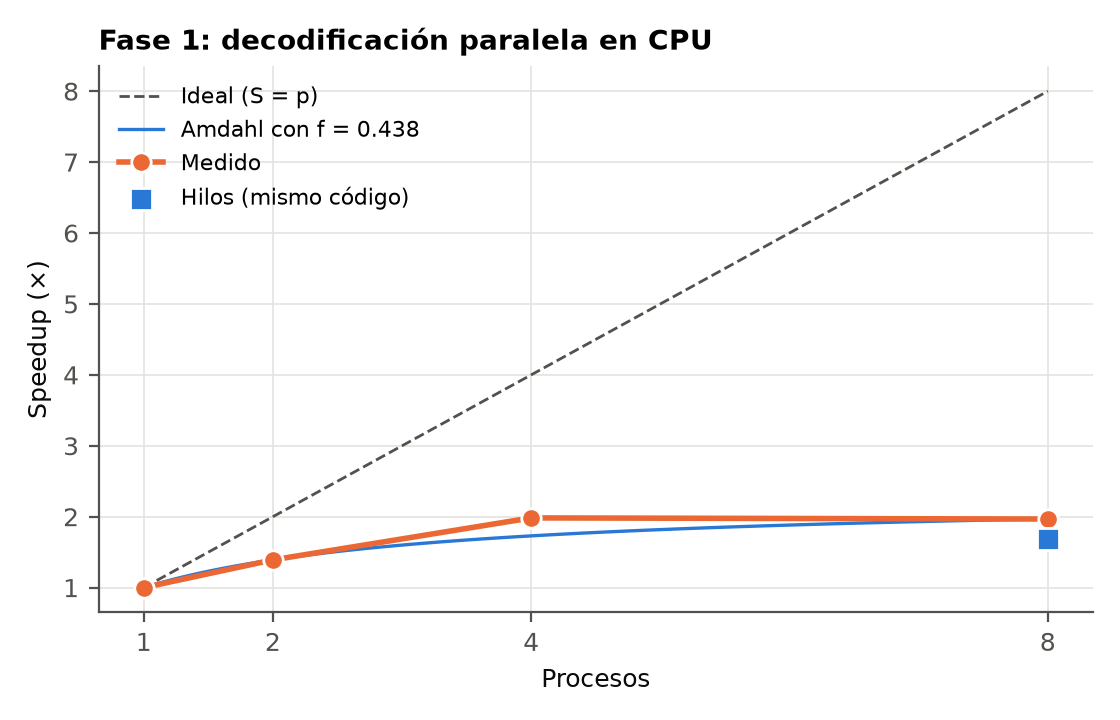
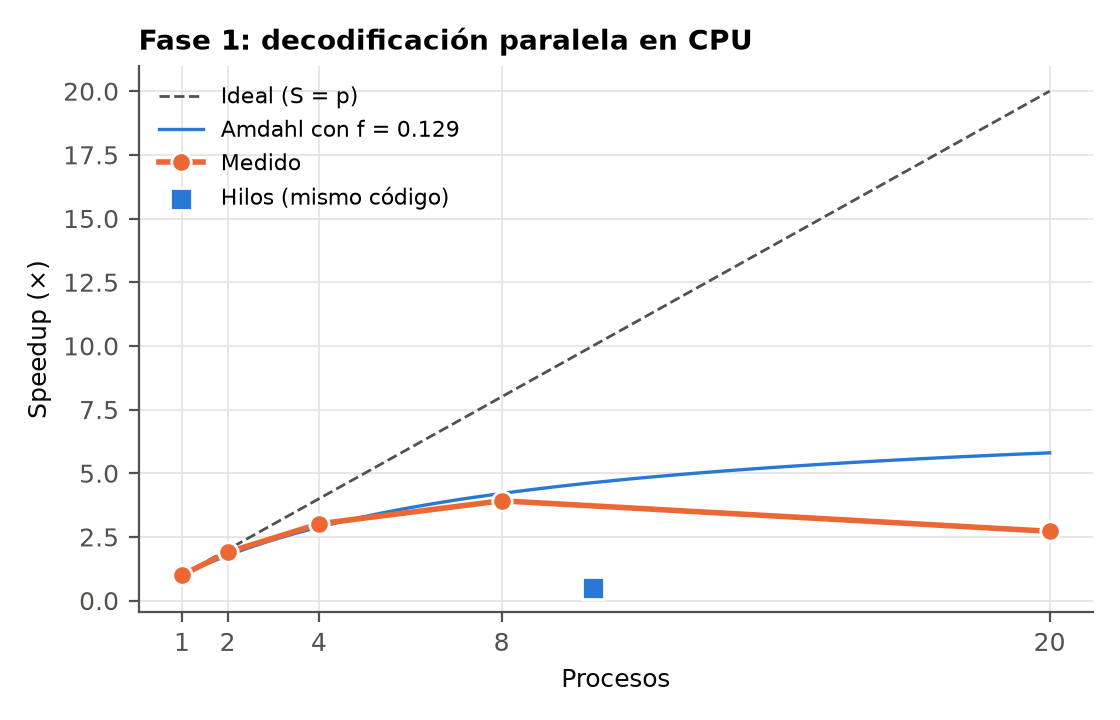
docs: resultados de la Ryzen en las secciones 2 y 6 y en el notebook

diff --git a/docs/02-medicion-secuencial.md b/docs/02-medicion-secuencial.md
@@ -32,12 +32,15 @@ rendimiento, sin otras aplicaciones abiertas y la misma versión del código
 `results/<equipo>/bench/` y el uso de cada núcleo, medido cada 0.25 s, en
 `results/<equipo>/bench/monitor.csv`.
 
-Medimos en dos computadoras. Los números oficiales, y todos los speedup del
+Medimos en tres computadoras. Los números oficiales, y todos los speedup del
 informe, son de la laptop de Adrian, porque ahí se mide también la GPU y el
-speedup solo tiene sentido dentro de la misma máquina. La segunda computadora
-es la MacBook de Hansel (Apple M3, 8 núcleos: 4 de rendimiento y 4 de
-eficiencia, 24 GB de RAM); sirve para ver cómo cambia el escalamiento en CPU
-con otra arquitectura.
+speedup solo tiene sentido dentro de la misma máquina. Las otras dos sirven
+para ver cómo cambia el escalamiento en CPU con otra arquitectura:
+
+| Equipo | Procesador | Núcleos | RAM | Sistema |
+|---|---|---|---|---|
+| Laptop de Fernando | AMD Ryzen AI 9 365 | 10 físicos (4 Zen 5 y 6 Zen 5c), 20 lógicos | 15.3 GB visibles en WSL2 | Linux en WSL2 sobre Windows |
+| MacBook de Hansel | Apple M3 | 8 (4 de rendimiento y 4 de eficiencia) | 24 GB | macOS |
 
 ## 2.2 Resultados en la laptop de la corrida oficial
 
@@ -77,16 +80,98 @@ Las variantes en CPU de la transformación de entrada, del paso de
 entrenamiento y de la inferencia están en las tablas de la sección 5.3, junto
 a las de GPU, para que la comparación quede en un solo lugar.
 
-## 2.3 Resultados en la segunda computadora (Apple M3)
+## 2.3 Resultados en la laptop de Fernando (Ryzen AI 9 365)
+
+Esta corrida se hizo con la laptop conectada, sin otras aplicaciones y sin
+usarla mientras corría. El monitor lo confirma: durante las variantes de un
+solo hilo el uso total del CPU fue de 5.4 %, que es justo un núcleo lógico de
+20; no había otra carga.
+
+: Época completa en la Ryzen (1,160 imágenes, media de 3 repeticiones).
+
+{{< include ../informe/tablas/cpu2_pipeline.md >}}
+
+El Lab 3 en un hilo procesa 44.9 imágenes por segundo. De los 25.8 s de la
+época, 5.4 s (21 %) son abrir, decodificar y transformar imágenes y 20.4 s son
+la red. Con la configuración con la que se entregó (4 *workers* y todos los
+hilos) la época baja a 15.5 s, un speedup de 1.67, y la parte de datos casi
+desaparece del hilo principal (1.05 s) porque la hacen los *workers* en
+paralelo. Con la caché y el kernel de Numba en CPU baja a 9.4 s (2.75×).
+
+Esa última fila tiene un CV de 26 %: la primera repetición tardó 6.5 s y las
+dos siguientes 10.8 y 10.9 s. Las tres usan los 20 hilos lógicos al 96 %
+durante más de 30 s seguidos, y lo más probable es que la laptop haya bajado
+la frecuencia por temperatura. Desde WSL2 no pudimos leer la frecuencia del
+procesador para confirmarlo, así que lo dejamos como hipótesis; es también
+un aviso para la corrida en GPU, que corre en otra laptop con el mismo
+problema.
+
+: Proyección del entrenamiento completo en la Ryzen.
+
+{{< include ../informe/tablas/cpu2_proyeccion_entrenamiento.md >}}
+
+Con la caché y el kernel en CPU, el entrenamiento completo pasaría de 3.77
+a 1.38 horas sin usar GPU. Es la ganancia de hacer la decodificación una sola
+vez y de reemplazar PIL por el kernel, antes de cualquier aceleración en la
+GPU.
+
+: Paso de entrenamiento, inferencia y transformación de entrada en la Ryzen.
+
+{{< include ../informe/tablas/cpu2_train.md >}}
+
+{{< include ../informe/tablas/cpu2_inference.md >}}
+
+{{< include ../informe/tablas/cpu2_augment.md >}}
+
+Aquí los hilos de PyTorch sí ayudan, pero poco: el paso de entrenamiento
+mejora 1.45 veces con 20 hilos, aunque el monitor muestra los 20 hilos
+lógicos al 96 %. En Linux, PyTorch usa OpenMP y sus hilos esperan activamente
+(*spin*) en cada barrera entre operaciones, así que un núcleo ocupado no
+significa un núcleo haciendo trabajo útil. Con una sola imagen, 20 hilos son
+más lentos que uno (9.4 ms contra 5.3 ms): cada capa tiene tan poco trabajo
+que coordinar los hilos cuesta más que el cálculo.
+
+El kernel de Numba, en cambio, ya es 2.3 veces más rápido que torchvision con
+PIL en un solo hilo, y con 20 hilos llega a 12.5 veces. Es la fase que mejor
+escala en CPU porque cada lote es un solo `prange` grande, sin barreras
+intermedias.
+
+: Decodificación de 5,800 imágenes en la Ryzen.
+
+{{< include ../informe/tablas/cpu2_prep.md >}}
+
+![Speedup de la decodificación en la Ryzen.](../informe/figuras/cpu2_prep_escalamiento.png){width=70%}
+
+La decodificación escala bien hasta 4 procesos (3.0×, eficiencia 0.75) y
+llega a su máximo con 8 (3.9×). Con 20 procesos baja a 2.7×. Karp-Flatt
+crece de forma sostenida, de 0.055 con 2 procesos a 0.33 con 20: el límite no
+es una parte secuencial del algoritmo sino el costo de paralelizar. A partir
+de 10 procesos se empiezan a usar los hilos lógicos (dos por núcleo físico,
+que comparten unidades de cálculo) y 6 de los 10 núcleos son Zen 5c, de menor
+frecuencia. Además, 5,800 imágenes se reparten en bloques muy pequeños entre
+20 procesos, y arrancar cada uno pesa. Con el dataset completo sí conviene usar
+todos: `asl-cuda prep` armó la caché de las 66,700 imágenes en 73.5 s con un
+proceso y en 15.8 s con 20 (4.65×). Parte de esa diferencia no es
+paralelismo: la corrida de un proceso fue la primera y leyó los JPEG desde el
+disco (907 imágenes por segundo, contra 1,686 en la medición con
+calentamiento).
+
+Los hilos, con el mismo código, fueron más lentos que la versión secuencial:
+speedup de 0.51 con 10 hilos. Es el efecto del GIL.
+
+![Uso de cada núcleo lógico durante todas las mediciones en la Ryzen. Las variantes secuenciales ocupan un núcleo a la vez (el sistema lo va moviendo); las paralelas, los 20.](../informe/figuras/cpu2_monitor_bench.png){width=95%}
+
+## 2.4 Resultados en la MacBook de Hansel (Apple M3)
 
 En la M3 las mediciones se hicieron con algunas aplicaciones abiertas en
 segundo plano. El monitor lo muestra: aun en la variante de un solo hilo, los
 cuatro núcleos de eficiencia estaban entre 12 y 28 % ocupados. Por eso usamos
-estos números para comparar cómo escala cada fase y no como tiempos absolutos.
+estos números para comparar cómo escala cada fase y no como tiempos absolutos;
+la referencia limpia en CPU es la de la sección anterior.
 
 : Época completa en la M3 (1,160 imágenes, media de 3 repeticiones).
 
-{{< include ../informe/tablas/cpu2_pipeline.md >}}
+{{< include ../informe/tablas/cpu3_pipeline.md >}}
 
 Una época del Lab 3 en un hilo procesa 45.4 imágenes por segundo, y de los
 25.5 s que tarda con 1,160 imágenes solo 1.8 s son lectura y transformación;
@@ -102,18 +187,18 @@ repetición, mientras arrancan los 4 procesos del `DataLoader`.
 
 : Paso de entrenamiento en la M3 (15 lotes de 64).
 
-{{< include ../informe/tablas/cpu2_train.md >}}
+{{< include ../informe/tablas/cpu3_train.md >}}
 
 : Inferencia en la M3, por lotes y de una sola imagen.
 
-{{< include ../informe/tablas/cpu2_inference.md >}}
+{{< include ../informe/tablas/cpu3_inference.md >}}
 
 El paso de entrenamiento confirma que el problema son los hilos de PyTorch:
 con 8 hilos tarda 64.2 s contra 21.9 s con uno (speedup 0.34) y con un CV de
 11 %, contra 2.7 % en un hilo. Para una sola imagen la latencia sube de 16 ms
 a 82 ms.
 
-![Uso de cada núcleo durante la época completa en la M3. Núcleos 0–3: eficiencia; 4–7: rendimiento.](../informe/figuras/cpu2_monitor_bench.png){width=95%}
+![Uso de cada núcleo durante la época completa en la M3. Núcleos 0–3: eficiencia; 4–7: rendimiento.](../informe/figuras/cpu3_monitor_bench.png){width=95%}
 
 La figura explica por qué. Con 8 hilos el uso total del CPU fue de 31 a 33 %
 en promedio, y los núcleos de rendimiento promediaron entre 32 y 59 %: los
@@ -128,7 +213,7 @@ En cambio, el kernel de Numba en CPU sí escala en la misma máquina:
 
 : Transformación de entrada en la M3 (1,160 imágenes).
 
-{{< include ../informe/tablas/cpu2_augment.md >}}
+{{< include ../informe/tablas/cpu3_augment.md >}}
 
 Pasa de 1.58 s con un hilo a 0.44 s con 8 (3.6 veces), y queda 3.8 veces más
 rápido que torchvision con PIL. La diferencia con PyTorch es que el trabajo
@@ -137,9 +222,9 @@ sin una barrera por capa.
 
 : Decodificación de 5,800 imágenes en la M3.
 
-{{< include ../informe/tablas/cpu2_prep.md >}}
+{{< include ../informe/tablas/cpu3_prep.md >}}
 
-![Speedup de la decodificación en la M3.](../informe/figuras/cpu2_prep_escalamiento.png){width=70%}
+![Speedup de la decodificación en la M3.](../informe/figuras/cpu3_prep_escalamiento.png){width=70%}
 
 ![Monitor de actividad de la M3 durante la decodificación con 1 proceso: un solo proceso de Python con 83 % de CPU.](../evidencia/hansel-prep-secuencial.png){width=95%}
 
@@ -162,17 +247,19 @@ escribe 5.2 GB de caché, contra 1.4 GB de cada una de las otras dos.
 Sospechamos que ahí el límite fue la escritura a disco, pero no lo medimos
 por separado.
 
-## 2.4 Factores que influyen en el rendimiento
+## 2.5 Factores que influyen en el rendimiento
 
 **El GIL.** Los hilos de Python no ejecutan código Python al mismo tiempo.
-Pillow suelta el GIL durante parte de la decodificación, por eso en la M3 los
-hilos todavía dieron 1.68 de speedup, pero quedaron por debajo de los
-procesos con el mismo número de trabajadores. [[GPU: speedup de la fila de
-hilos en prep.md de la corrida oficial y comparación con procesos]].
+En la Ryzen, 10 hilos decodificando fueron más lentos que uno solo (0.51×).
+Pillow suelta el GIL durante parte de la decodificación, y en la M3 los hilos
+todavía dieron 1.68×, pero en las dos máquinas quedaron por debajo de los
+procesos. [[GPU: speedup de la fila de hilos en prep.md de la corrida
+oficial y comparación con procesos]].
 
 **Núcleos físicos, lógicos y de distinto tipo.** Dos hilos lógicos de un
-mismo núcleo físico comparten sus unidades de cálculo, y en la M3 la mitad de
-los núcleos son de eficiencia. En los dos casos agregar trabajadores después
+mismo núcleo físico comparten sus unidades de cálculo; en la Ryzen 6 de los
+10 núcleos son Zen 5c, de menor frecuencia, y en la M3 la mitad son de
+eficiencia. En los dos casos agregar trabajadores después
 del número de núcleos rápidos no ayuda y puede empeorar el tiempo, sobre todo
 en PyTorch, que sincroniza todos sus hilos en cada operación.
 
@@ -180,6 +267,10 @@ en PyTorch, que sincroniza todos sus hilos en cada operación.
 *spawn*: cada uno vuelve a importar las librerías. Es un costo fijo que se
 nota con pocas imágenes (Karp-Flatt creciente en la decodificación) y en el
 `DataLoader` del Lab 3, que lo paga al inicio de cada época.
+
+**Temperatura.** Una laptop con todos los núcleos ocupados por mucho tiempo
+baja su frecuencia. Lo vimos en la variante híbrida en la Ryzen (de 6.5 s a
+10.9 s entre repeticiones); por eso reportamos el CV de cada medición.
 
 **Caché del sistema operativo.** La primera lectura de los JPEG viene del
 disco y las siguientes de la memoria. Por eso descartamos la primera
@@ -193,7 +284,8 @@ Numba hace todo en una pasada por píxel, y por eso aun en un hilo es igual o
 más rápido.
 
 **Hilos de PyTorch y *workers* del `DataLoader`.** El Lab 3 se entregó con 4
-*workers* y todos los hilos. Esa combinación pone más trabajadores que núcleos
-y, como se vio en la M3, puede ser más lenta que un solo hilo. En la laptop
+*workers* y todos los hilos. En la Ryzen esa combinación sí ayudó (1.67×),
+pero en la M3 fue 3 veces más lenta que un solo hilo: el resultado depende
+del procesador y no conviene suponerlo. En la laptop
 oficial la diferencia entre "Lab 3 secuencial" y "Lab 3 como se entregó" fue
 [[GPU: speedup de "Lab 3 como se entregó" en pipeline.md]].

diff --git a/docs/06-analisis-conclusiones.md b/docs/06-analisis-conclusiones.md
@@ -44,8 +44,8 @@ Contrastamos las hipótesis de la sección 3 con lo medido:
 
 | Hipótesis | Resultado | Evidencia |
 |---|---|---|
-| 1. Eliminar la decodificación repetida reduce el tiempo por época aun sin GPU | [[GPU]] Parcial en la M3: la parte de datos bajó de 1.84 s a 0.36 s por época de 1,160 imágenes, pero la época total no, porque ahí domina la red | `bench_pipeline.csv`, columna `data_seconds` |
-| 2. La decodificación escala casi lineal hasta los núcleos físicos y después se aplana | [[GPU]] En la M3 se aplanó en 4 procesos (1.98×), con Karp-Flatt creciente | `prep.md` |
+| 1. Eliminar la decodificación repetida reduce el tiempo por época aun sin GPU | [[GPU]] Sí en la Ryzen: la época bajó de 25.8 s a 9.4 s (2.75×) y la parte de datos de 5.4 s a 0.45 s. En la M3 la parte de datos también bajó (1.84 s a 0.36 s), pero la época no, por los hilos de PyTorch | `pipeline.md`, `bench_pipeline.csv` (`data_seconds`) |
+| 2. La decodificación escala casi lineal hasta los núcleos físicos y después se aplana | [[GPU]] Se cumple: la Ryzen (10 núcleos físicos) llegó a su máximo con 8 procesos (3.9×) y bajó con 20; la M3 se aplanó en 4 (1.98×). En las dos Karp-Flatt crece con los procesos | `prep.md` |
 | 3. El kernel en GPU es al menos 10 veces más rápido que torchvision/PIL | [[GPU]] | `augment.md` |
 | 4. El paso de entrenamiento en GPU con AMP es más de 10 veces más rápido que en CPU multinúcleo | [[GPU]] | `train.md` |
 | 5. Con la transformación en CPU la GPU queda esperando datos | [[GPU]] | `entrenamientos.md`, `monitor_base-cuda-aug-cpu.png` |
@@ -58,7 +58,8 @@ el backward, organizados en convoluciones y productos matriciales con miles
 de salidas independientes. cuDNN reparte ese trabajo entre todos los
 multiprocesadores de la GPU, y con precisión mixta además usa los Tensor
 Cores. En el CPU el mismo trabajo se reparte entre unos pocos núcleos, y como
-vimos en la M3, repartirlo entre más hilos no siempre ayuda.
+vimos en la sección 2, repartirlo entre más hilos ayuda poco (1.45× con 20
+hilos en la Ryzen) o incluso empeora (0.34× con 8 en la M3).
 
 **El kernel de entrada está limitado por memoria, no por cálculo.** Cada hilo
 hace unas 60 operaciones de punto flotante por 24 bytes que lee y escribe.
@@ -79,11 +80,13 @@ Cuando la transformación vuelve al CPU (ablación `base-cuda-aug-cpu`), el CPU
 es el que marca el ritmo. [[GPU: img/s y espera por datos de las dos
 corridas.]]
 
-**Los hilos de PyTorch en CPU.** En la M3, con 8 hilos, el paso de
-entrenamiento fue 2.9 veces más lento que con uno, y durante la época
-completa el uso total del CPU promedió entre 31 y 33 %. PyTorch divide cada operación en partes iguales y espera a que
-terminen todas; con núcleos de dos velocidades los rápidos esperan a los
-lentos en cada capa. [[GPU: comparar con la fila "CPU N hilos" de train.md
+**Los hilos de PyTorch en CPU.** PyTorch divide cada operación en partes
+iguales y espera a que terminen todas antes de seguir. En la Ryzen, con 20
+hilos, el paso de entrenamiento fue solo 1.45 veces más rápido aunque los 20
+hilos lógicos aparecían al 96 %: buena parte de ese uso es espera activa en
+las barreras de OpenMP. En la M3, con 8 hilos, fue 2.9 veces más lento que con
+uno, con el CPU ocupado apenas entre 31 y 33 %: con núcleos de dos
+velocidades los rápidos esperan a los lentos en cada capa. [[GPU: comparar con la fila "CPU N hilos" de train.md
 en la laptop oficial: si allí sí ayudó, la diferencia es la arquitectura del
 procesador.]]
 
@@ -101,9 +104,10 @@ de un JPEG es secuencial dentro de cada archivo, porque no se sabe dónde
 empieza un símbolo hasta decodificar el anterior, y está llena de ramas; en
 una GPU los hilos de un warp que toman caminos distintos se ejecutan por
 turnos. Lo que sí es paralelo es que los archivos no dependen entre sí, y eso
-es exactamente lo que aprovechan varios procesos del CPU: en la M3 la
-decodificación llegó a 1.98 veces con 4 procesos y en la laptop oficial a
-[[GPU: mejor speedup de prep.md]]. Además, al guardar el resultado en una
+es exactamente lo que aprovechan varios procesos del CPU: la decodificación
+llegó a 3.9 veces con 8 procesos en la Ryzen, a 1.98 con 4 en la M3 y a
+[[GPU: mejor speedup de prep.md]] en la laptop oficial. Con hilos, en cambio,
+fue más lenta que la versión secuencial en la Ryzen (0.51×) por el GIL. Además, al guardar el resultado en una
 caché `uint8`, la decodificación se hace una sola vez: de las 1,911,100
 decodificaciones que hizo la búsqueda del Lab 3 pasamos a 66,700.
 
@@ -186,7 +190,7 @@ mitad "final".]]
 
 : Modelo elegido evaluado con las fotos del equipo.
 
-{{< include ../informe/tablas/cpu2_evaluacion.md >}}
+{{< include ../informe/tablas/cpu3_evaluacion.md >}}
 
 ![Matriz de confusión del modelo elegido en el test interno.](../informe/figuras/confusion_test.png){width=70%}
 
@@ -219,7 +223,8 @@ y solo fue práctica de probar con datos completos gracias a la GPU.
    de bloque.
 5. La red con AMP: speedup del paso y qué optimización aportó más.
 6. La ablación: la GPU espera si el CPU hace la transformación.
-7. Lo que no mejoró: más hilos de PyTorch en CPU (M3) y la latencia de una
+7. Lo que no mejoró: más hilos de PyTorch en CPU (1.45× en la Ryzen, 0.34×
+   en la M3) y la latencia de una
    sola imagen en GPU.
 8. Datos nuevos: macro F1 en test interno, externo final y fotos del
    equipo.]]

diff --git a/informe/tablas/cpu2_prep.md b/informe/tablas/cpu2_prep.md
@@ -1,7 +1,8 @@
 | Variante | Procesos/hilos | Tiempo medio (s) | Desv. est. (s) | Imágenes/s | Speedup | Eficiencia | Karp-Flatt e |
-|---------------------------|-------------:|---------------:|-------------:|---------:|------:|---------:|-----------:|
-| secuencial | 1 | 1.418 | 0.037 | 4,091.1 | 1.000 | 1.000 |  |
-| procesos=2 | 2 | 1.019 | 0.086 | 5,691.7 | 1.391 | 0.696 | 0.438 |
-| procesos=4 | 4 | 0.715 | 0.015 | 8,112.7 | 1.983 | 0.496 | 0.339 |
-| procesos=8 | 8 | 0.721 | 0.026 | 8,047.4 | 1.967 | 0.246 | 0.438 |
-| hilos=8 (mismo código, GIL) | 8 | 0.843 | 0.083 | 6,880.2 | 1.682 | 0.210 |  |
+|----------------------------|-------------:|---------------:|-------------:|---------:|------:|---------:|-----------:|
+| secuencial | 1 | 3.439 | 0.202 | 1,686.5 | 1.000 | 1.000 |  |
+| procesos=2 | 2 | 1.814 | 0.106 | 3,197.3 | 1.896 | 0.948 | 0.055 |
+| procesos=4 | 4 | 1.141 | 0.114 | 5,085.1 | 3.015 | 0.754 | 0.109 |
+| procesos=8 | 8 | 0.878 | 0.081 | 6,608.7 | 3.919 | 0.490 | 0.149 |
+| procesos=20 | 20 | 1.264 | 0.074 | 4,589.0 | 2.721 | 0.136 | 0.334 |
+| hilos=10 (mismo código, GIL) | 10 | 6.743 | 0.085 | 860.2 | 0.510 | 0.051 |  |

diff --git a/informe/tablas/cpu2_fases.md b/informe/tablas/cpu2_fases.md
@@ -1,7 +1,7 @@
 | Fase | Secuencial (ms/img) | Mejor variante CPU | CPU (ms/img) | Speedup CPU | GPU (ms/img) | Speedup GPU |
 |-------------------------|------------------:|----------------------------------------|-----------:|----------:|-----------:|----------:|
-| Decodificación (fase 1) | 0.244 | procesos=4 | 0.123 | 1.983 |  |  |
-| Transformación de entrada | 1.458 | Numba CPU 8 hilos | 0.381 | 3.828 |  |  |
-| Paso de entrenamiento | 22.8 | CPU 8 hilos | 66.8 | 0.341 |  |  |
-| Inferencia por lotes | 17.2 | CPU 8 hilos lote 64 | 17.5 | 0.983 |  |  |
-| Época completa | 22.0 | Híbrido CPU (caché + Numba CPU, 8 hilos) | 45.7 | 0.481 |  |  |
+| Decodificación (fase 1) | 0.593 | procesos=8 | 0.151 | 3.919 |  |  |
+| Transformación de entrada | 5.036 | Numba CPU 20 hilos | 0.404 | 12.5 |  |  |
+| Paso de entrenamiento | 12.2 | CPU 20 hilos | 8.399 | 1.450 |  |  |
+| Inferencia por lotes | 9.112 | CPU 20 hilos lote 64 | 4.004 | 2.276 |  |  |
+| Época completa | 22.3 | Híbrido CPU (caché + Numba CPU, 20 hilos) | 8.104 | 2.748 |  |  |

diff --git a/informe/tablas/cpu2_inference.md b/informe/tablas/cpu2_inference.md
@@ -1,9 +1,9 @@
 | Variante | Imágenes | Tiempo medio (s) | Desv. est. (s) | CV (%) | Imágenes/s | Speedup |
-|-------------------|-------:|---------------:|-------------:|-----:|---------:|------:|
-| CPU 1 hilo lote 64 | 320 | 5.516 | 0.084 | 1.526 | 58.0 | 1.000 |
-| CPU 8 hilos lote 64 | 320 | 5.613 | 0.099 | 1.760 | 57.0 | 0.983 |
+|--------------------|-------:|---------------:|-------------:|-----:|---------:|------:|
+| CPU 1 hilo lote 64 | 320 | 2.916 | 0.062 | 2.133 | 109.7 | 1.000 |
+| CPU 20 hilos lote 64 | 320 | 1.281 | 0.141 | 11.0 | 249.7 | 2.276 |
 
 | Variante | Latencia p50 (ms) | Latencia p95 (ms) | FPS equivalentes |
-|--------------------|----------------:|----------------:|---------------:|
-| CPU 1 hilo 1 imagen | 16.0 | 17.6 | 62.7 |
-| CPU 8 hilos 1 imagen | 81.6 | 104.4 | 12.4 |
+|---------------------|----------------:|----------------:|---------------:|
+| CPU 1 hilo 1 imagen | 5.345 | 7.372 | 187.2 |
+| CPU 20 hilos 1 imagen | 9.390 | 18.9 | 106.6 |

diff --git a/informe/tablas/cpu2_proyeccion_entrenamiento.md b/informe/tablas/cpu2_proyeccion_entrenamiento.md
@@ -1,7 +1,7 @@
 | Variante | Min por época | Horas totales | Speedup |
 |----------------------------------------|------------:|------------:|------:|
-| Lab 3 secuencial (0 workers, 1 hilo) | 16.0 | 3.722 | 1.000 |
-| Lab 3 como se entregó (4 workers, 8 hilos) | 46.9 | 10.9 | 0.340 |
-| Híbrido CPU (caché + Numba CPU, 8 hilos) | 33.2 | 7.742 | 0.481 |
+| Lab 3 secuencial (0 workers, 1 hilo) | 16.1 | 3.768 | 1.000 |
+| Lab 3 como se entregó (4 workers, 20 hilos) | 9.698 | 2.263 | 1.665 |
+| Híbrido CPU (caché + Numba CPU, 20 hilos) | 5.876 | 1.375 | 2.739 |
 
-Proyección lineal a 43,500 imágenes por época y 14 épocas (presupuesto máximo de la receta). Las variantes híbridas incluyen una sola vez la fase 1 medida en este equipo (19 s).
+Proyección lineal a 43,500 imágenes por época y 14 épocas (presupuesto máximo de la receta). Las variantes híbridas incluyen una sola vez la fase 1 medida en este equipo (16 s).

diff --git a/informe/tablas/cpu2_pipeline.md b/informe/tablas/cpu2_pipeline.md
@@ -1,5 +1,5 @@
 | Variante | Imágenes | Tiempo medio (s) | Desv. est. (s) | CV (%) | Imágenes/s | Speedup |
 |----------------------------------------|-------:|---------------:|-------------:|-----:|---------:|------:|
-| Lab 3 secuencial (0 workers, 1 hilo) | 1,160 | 25.5 | 0.055 | 0.215 | 45.4 | 1.000 |
-| Lab 3 como se entregó (4 workers, 8 hilos) | 1,160 | 75.0 | 0.381 | 0.508 | 15.5 | 0.340 |
-| Híbrido CPU (caché + Numba CPU, 8 hilos) | 1,160 | 53.0 | 0.067 | 0.126 | 21.9 | 0.481 |
+| Lab 3 secuencial (0 workers, 1 hilo) | 1,160 | 25.8 | 0.350 | 1.353 | 44.9 | 1.000 |
+| Lab 3 como se entregó (4 workers, 20 hilos) | 1,160 | 15.5 | 0.882 | 5.681 | 74.8 | 1.665 |
+| Híbrido CPU (caché + Numba CPU, 20 hilos) | 1,160 | 9.401 | 2.495 | 26.5 | 123.4 | 2.748 |

diff --git a/informe/tablas/cpu3_fases.md b/informe/tablas/cpu3_fases.md
@@ -1,0 +1,7 @@
+| Fase | Secuencial (ms/img) | Mejor variante CPU | CPU (ms/img) | Speedup CPU | GPU (ms/img) | Speedup GPU |
+|-------------------------|------------------:|----------------------------------------|-----------:|----------:|-----------:|----------:|
+| Decodificación (fase 1) | 0.244 | procesos=4 | 0.123 | 1.983 |  |  |
+| Transformación de entrada | 1.458 | Numba CPU 8 hilos | 0.381 | 3.828 |  |  |
+| Paso de entrenamiento | 22.8 | CPU 8 hilos | 66.8 | 0.341 |  |  |
+| Inferencia por lotes | 17.2 | CPU 8 hilos lote 64 | 17.5 | 0.983 |  |  |
+| Época completa | 22.0 | Híbrido CPU (caché + Numba CPU, 8 hilos) | 45.7 | 0.481 |  |  |

diff --git a/informe/tablas/cpu2_augment.md b/informe/tablas/cpu2_augment.md
@@ -1,5 +1,5 @@
 | Variante | Imágenes | Tiempo medio (s) | Desv. est. (s) | CV (%) | Imágenes/s | Speedup |
 |-----------------------|-------:|---------------:|-------------:|-----:|---------:|------:|
-| torchvision-PIL (Lab 3) | 1,160 | 1.691 | 0.042 | 2.511 | 685.8 | 1.000 |
-| Numba CPU 1 hilo | 1,160 | 1.581 | 0.007 | 0.455 | 733.8 | 1.070 |
-| Numba CPU 8 hilos | 1,160 | 0.442 | 0.004 | 0.867 | 2,624.9 | 3.828 |
+| torchvision-PIL (Lab 3) | 1,160 | 5.842 | 0.185 | 3.165 | 198.6 | 1.000 |
+| Numba CPU 1 hilo | 1,160 | 2.580 | 0.081 | 3.137 | 449.7 | 2.264 |
+| Numba CPU 20 hilos | 1,160 | 0.468 | 0.020 | 4.271 | 2,478.1 | 12.5 |

diff --git a/informe/tablas/cpu3_prep.md b/informe/tablas/cpu3_prep.md
@@ -1,0 +1,7 @@
+| Variante | Procesos/hilos | Tiempo medio (s) | Desv. est. (s) | Imágenes/s | Speedup | Eficiencia | Karp-Flatt e |
+|---------------------------|-------------:|---------------:|-------------:|---------:|------:|---------:|-----------:|
+| secuencial | 1 | 1.418 | 0.037 | 4,091.1 | 1.000 | 1.000 |  |
+| procesos=2 | 2 | 1.019 | 0.086 | 5,691.7 | 1.391 | 0.696 | 0.438 |
+| procesos=4 | 4 | 0.715 | 0.015 | 8,112.7 | 1.983 | 0.496 | 0.339 |
+| procesos=8 | 8 | 0.721 | 0.026 | 8,047.4 | 1.967 | 0.246 | 0.438 |
+| hilos=8 (mismo código, GIL) | 8 | 0.843 | 0.083 | 6,880.2 | 1.682 | 0.210 |  |

diff --git a/informe/tablas/cpu3_inference.md b/informe/tablas/cpu3_inference.md
@@ -1,0 +1,9 @@
+| Variante | Imágenes | Tiempo medio (s) | Desv. est. (s) | CV (%) | Imágenes/s | Speedup |
+|-------------------|-------:|---------------:|-------------:|-----:|---------:|------:|
+| CPU 1 hilo lote 64 | 320 | 5.516 | 0.084 | 1.526 | 58.0 | 1.000 |
+| CPU 8 hilos lote 64 | 320 | 5.613 | 0.099 | 1.760 | 57.0 | 0.983 |
+
+| Variante | Latencia p50 (ms) | Latencia p95 (ms) | FPS equivalentes |
+|--------------------|----------------:|----------------:|---------------:|
+| CPU 1 hilo 1 imagen | 16.0 | 17.6 | 62.7 |
+| CPU 8 hilos 1 imagen | 81.6 | 104.4 | 12.4 |

diff --git a/informe/tablas/cpu3_proyeccion_entrenamiento.md b/informe/tablas/cpu3_proyeccion_entrenamiento.md
@@ -1,0 +1,7 @@
+| Variante | Min por época | Horas totales | Speedup |
+|----------------------------------------|------------:|------------:|------:|
+| Lab 3 secuencial (0 workers, 1 hilo) | 16.0 | 3.722 | 1.000 |
+| Lab 3 como se entregó (4 workers, 8 hilos) | 46.9 | 10.9 | 0.340 |
+| Híbrido CPU (caché + Numba CPU, 8 hilos) | 33.2 | 7.742 | 0.481 |
+
+Proyección lineal a 43,500 imágenes por época y 14 épocas (presupuesto máximo de la receta). Las variantes híbridas incluyen una sola vez la fase 1 medida en este equipo (19 s).
